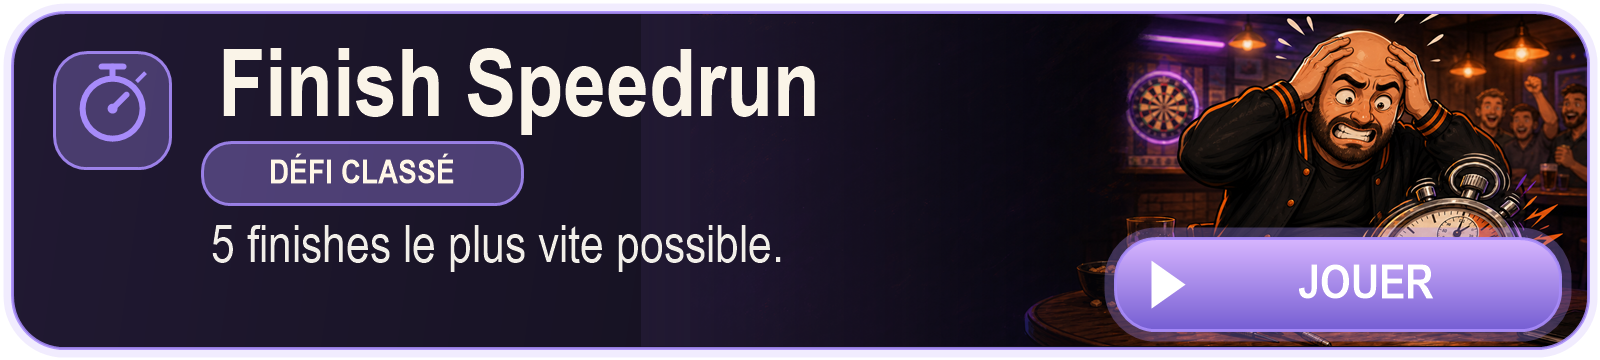
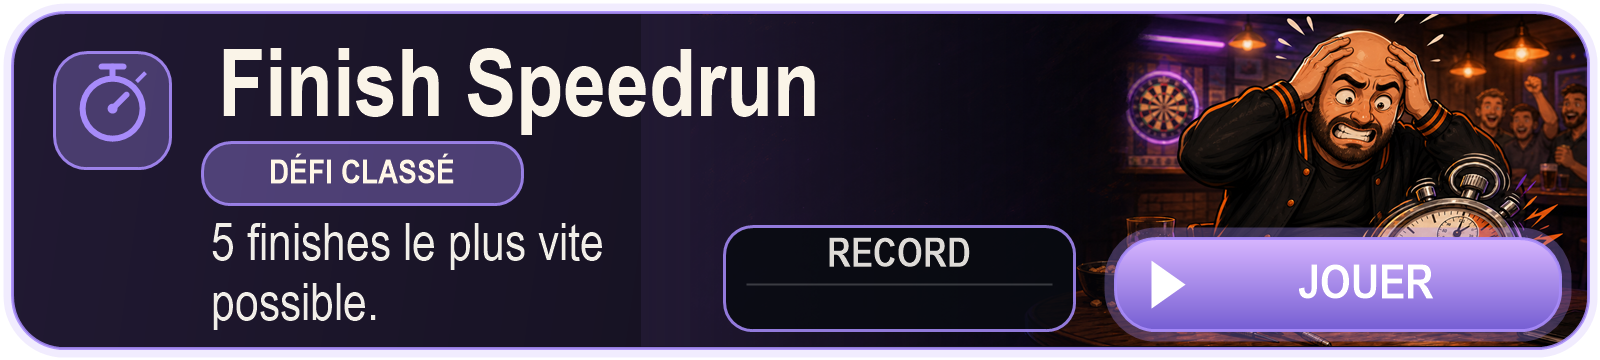
Mini jeux: les 2 defis du jour passent en banniere avec le record en direct (v80)
L'utilisateur a refait les 2 images avec un encadre RECORD laisse VIDE. Le record
change tous les jours : il ne peut pas etre dessine dedans, on le pose donc en
HTML par-dessus l'image.

- Emplacement mesure au pixel sur l'image 1600x360 : le bloc vide sous le mot
  RECORD va de x 744 a 1054 et de y 268 a 328 -> centre 56,2% / 82,8%.
  (Attention en re-mesurant : il y a un 2e bloc vide SOUS la ligne de separation,
  il ne faut prendre que le premier.)
- La taille du texte suit la largeur de la carte via les unites `cqw`
  (containerType:"inline-size") : 2,7 cqw. Pas de mesure JS, pas de hook dans un
  composant defini en ligne. Support verifie dans le navigateur avant usage.
- GameCardImg accepte une prop `record` ; l'aria-label l'annonce aussi.
- Les cartes "Defi du jour" faites main (81 lignes) sont remplacees par 11 lignes.

CE QUI DISPARAIT, ASSUME : la fourchette de DRIX, le nombre de joueurs du jour, et
le bouton "BLOQUE JUSQU'A DEMAIN". L'info "deja joue" reste visible juste au-dessus
dans "TES DEFIS AUJOURD'HUI 0/2", et le jeu lui-meme refuse toujours une 2e partie.

Verifie dans le navigateur a 618 px ET a 375 px : les 4 bannieres chargees, records
reels affiches (27.8s et 46.4s), position mesuree a 56,2% / 82,8% dans les deux cas,
police 16,7 px sur grand ecran et 9,4 px sur telephone. Plus aucune ancienne carte.

diff --git a/src/App.jsx b/src/App.jsx
@@ -6860,14 +6860,21 @@ const PageModeJeu = ({ joueur, setPage, initCat=null }) => {
   // AUCUN cadre ni fond autour, sinon on doublonnerait la bordure déjà dessinée.
   // C'est un <button> et pas un <div> : accessible au clavier, et surtout `aria-label` porte
   // le texte que les lecteurs d'écran ne peuvent pas lire dans une image.
-  const GameCardImg = ({ img, label, sub, onClick, priorite = false }) => (
+  // `record` : les 2 bannières de speedrun réservent un encadré vide « RECORD ». On y pose
+  // le temps du jour EN HTML par-dessus l'image — il change tous les jours, donc impossible
+  // de le dessiner dedans. Coordonnées mesurées au pixel sur l'image 1600×360 :
+  // emplacement vide x 744→1054, y 268→328, soit centre 56,2 % / 82,8 %.
+  // La taille du texte suit la largeur de la carte grâce aux unités `cqw` (1 cqw = 1 % de la
+  // largeur du conteneur) : le record reste proportionné du téléphone au grand écran.
+  const GameCardImg = ({ img, label, sub, onClick, priorite = false, record = null }) => (
     <button
       type="button" onClick={onClick} className="mj-card mj-card-img"
-      aria-label={`${label} — ${sub}`}
+      aria-label={record ? `${label} — ${sub} — record du jour ${record}` : `${label} — ${sub}`}
       style={{
         display:"block", width:"100%", padding:0, border:"none", background:"none",
         cursor:"pointer", touchAction:"manipulation", borderRadius:22,
         transition:"transform .18s cubic-bezier(.22,.61,.36,1), filter .18s ease",
+        position:"relative", containerType:"inline-size",
       }}
     >
       <img
@@ -6878,6 +6885,14 @@ const PageModeJeu = ({ joueur, setPage, initCat=null }) => {
         loading={priorite ? "eager" : "lazy"} decoding="async"
         style={{ display:"block", width:"100%", height:"auto", borderRadius:22 }}
       />
+      {record && (
+        <span aria-hidden style={{
+          position:"absolute", left:"56.2%", top:"82.8%", transform:"translate(-50%,-50%)",
+          fontSize:"2.7cqw", fontWeight:900, color:"#fbbf24", letterSpacing:.5,
+          fontVariantNumeric:"tabular-nums", whiteSpace:"nowrap", lineHeight:1,
+          textShadow:"0 0 8px #fbbf2466", pointerEvents:"none",
+        }}>{record}</span>
+      )}
     </button>
   );
 
@@ -7123,8 +7138,8 @@ const PageModeJeu = ({ joueur, setPage, initCat=null }) => {
   // ─── REFONTE : Mini Jeux & Défis ────────────────────────────────────────────
   // Les 2 défis du jour featured en tête de liste
   const featuredList = [
-    { name:"Finish Speedrun", target:"chrono-finish", col:"#a78bfa", icon:Timer, record:dailyData.finishRecord, count:dailyData.finishCount, played:dailyData.finishPlayed, drix:"+5 à +20", desc:"5 finishes le plus vite possible" },
-    { name:"Scoreur Speedrun", target:"chrono-scoreur", col:"#60a5fa", icon:Zap, record:dailyData.scoreurRecord, count:dailyData.scoreurCount, played:dailyData.scoreurPlayed, drix:"+5 à +20", desc:"501 → 0 en calcul mental" },
+    { name:"Finish Speedrun", img:"finish-speedrun", target:"chrono-finish", col:"#a78bfa", icon:Timer, record:dailyData.finishRecord, count:dailyData.finishCount, played:dailyData.finishPlayed, drix:"+5 à +20", desc:"5 finishes le plus vite possible" },
+    { name:"Scoreur Speedrun", img:"scoreur-speedrun", target:"chrono-scoreur", col:"#60a5fa", icon:Zap, record:dailyData.scoreurRecord, count:dailyData.scoreurCount, played:dailyData.scoreurPlayed, drix:"+5 à +20", desc:"501 → 0 en calcul mental" },
   ];
 
   const dailyChallenges = [
@@ -7203,85 +7218,15 @@ const PageModeJeu = ({ joueur, setPage, initCat=null }) => {
       </div>
 
       {/* ═══ DÉFIS DU JOUR FEATURED (Finish + Scoreur) ═══ */}
-      {featuredList.map((featured, idx) => (
-        <div key={featured.target} className="mj-card" onClick={()=>setPage(featured.target)} style={{
-          position:"relative", overflow:"hidden",
-          background:`linear-gradient(135deg,${featured.col}22 0%,#0a0a14 50%,#050510 100%)`,
-          border:`2px solid ${featured.col}`,
-          borderRadius:18, padding:"14px 14px 12px",
-          cursor:"pointer", userSelect:"none", marginBottom:12,
-          boxShadow:`0 0 22px ${featured.col}55, inset 0 1px 0 #ffffff10`,
-          "--mjShadow": `${featured.col}66`,
-        }}>
-          {/* Bannière shine */}
-          <div aria-hidden style={{ position:"absolute",top:0,left:0,bottom:0,width:80,background:"linear-gradient(90deg,transparent,#ffffff15,transparent)",animation:"mjShine 3s ease-in-out infinite",pointerEvents:"none" }}/>
-          <div style={{ display:"flex",alignItems:"center",gap:8,marginBottom:10 }}>
-            <span style={{
-              fontSize:9,fontWeight:900,color:"#fbbf24",letterSpacing:2,
-              padding:"3px 10px",borderRadius:5,
-              background:"linear-gradient(90deg,#78350f44,#78350f66,#78350f44)",
-              border:"1px solid #fbbf2477", textShadow:"0 0 6px #fbbf24aa",
-            }}><EmoText s="🏆 DÉFI DU JOUR" size={9} gap={3}/></span>
-            {featured.played && (
-              <span style={{ fontSize:9,fontWeight:900,color:"#22c55e",padding:"3px 8px",borderRadius:5,background:"#052e1655",border:"1px solid #22c55e88" }}><EmoText s="✓ FAIT" size={9} gap={3}/></span>
-            )}
-          </div>
-
-          <div style={{ display:"flex",alignItems:"center",gap:12,marginBottom:10 }}>
-            <div style={{
-              flexShrink:0,width:54,height:54,borderRadius:14,
-              background:`linear-gradient(135deg,${featured.col}44,${featured.col}11)`,
-              border:`1.5px solid ${featured.col}`,
-              display:"flex",alignItems:"center",justifyContent:"center",
-              boxShadow:`0 0 16px ${featured.col}88, inset 0 1px 0 #ffffff20`,
-              animation: featured.played ? "none" : `mjPulse 2.4s ease-in-out ${idx*.4}s infinite`,
-            }}>
-              <featured.icon size={28} color={featured.col} style={{ filter:`drop-shadow(0 0 6px ${featured.col})` }}/>
-            </div>
-            <div style={{ flex:1, minWidth:0 }}>
-              <div style={{ fontSize:18,fontWeight:900,color:featured.col,letterSpacing:.5,textShadow:`0 0 8px ${featured.col}66` }}>
-                {featured.name}
-              </div>
-              <div style={{ fontSize:11,color:"#94a3b8",marginTop:2 }}>
-                {featured.desc}
-              </div>
-            </div>
-          </div>
-
-          {/* Stats row */}
-          <div style={{ display:"flex",gap:6,marginBottom:10,flexWrap:"wrap" }}>
-            <div style={{ flex:"1 1 0",background:"#0a0a14",border:`1px solid ${featured.col}33`,borderRadius:8,padding:"6px 8px",textAlign:"center",minWidth:80 }}>
-              <div style={{ fontSize:8,color:"#64748b",letterSpacing:1.5,marginBottom:2 }}><EmoText s="⏱ RECORD" size={9} gap={3}/></div>
-              <div style={{ fontSize:14,fontWeight:900,color:"#fbbf24",fontVariantNumeric:"tabular-nums" }}>
-                {featured.record ? fmtMs(featured.record.temps_ms) : "—"}
-              </div>
-            </div>
-            <div style={{ flex:"1 1 0",background:"#0a0a14",border:"1px solid #a78bfa33",borderRadius:8,padding:"6px 8px",textAlign:"center",minWidth:80 }}>
-              <div style={{ fontSize:8,color:"#64748b",letterSpacing:1.5,marginBottom:2 }}><EmoText s="💎 DRIX" size={9} gap={3}/></div>
-              <div style={{ fontSize:14,fontWeight:900,color:"#a78bfa" }}>{featured.drix}</div>
-            </div>
-            <div style={{ flex:"1 1 0",background:"#0a0a14",border:"1px solid #ef444433",borderRadius:8,padding:"6px 8px",textAlign:"center",minWidth:80 }}>
-              <div style={{ fontSize:8,color:"#64748b",letterSpacing:1.5,marginBottom:2 }}><EmoText s="🔥 JOUEURS" size={9} gap={3}/></div>
-              <div style={{ fontSize:14,fontWeight:900,color:"#ef4444" }}>{featured.count}</div>
-            </div>
-          </div>
-
-          {/* CTA */}
-          <div style={{ display:"flex",justifyContent:"center" }}>
-            <span style={{
-              display:"inline-flex",alignItems:"center",gap:6,
-              padding:"8px 16px",borderRadius:10,
-              background: featured.played
-                ? "#1a1a2a"
-                : `linear-gradient(135deg,${featured.col},${featured.col}dd)`,
-              color: featured.played ? "#64748b" : "#fff",
-              fontSize:13, fontWeight:900, letterSpacing:1.5,
-              boxShadow: featured.played ? "none" : `0 4px 14px ${featured.col}88, inset 0 1px 0 #ffffff33, inset 0 -2px 0 #00000044`,
-              textShadow: featured.played ? "none" : "0 1px 2px #00000066",
-            }}>
-              {featured.played ? "🔒 BLOQUÉ JUSQU'À DEMAIN" : "⚡ JOUER MAINTENANT"}
-            </span>
-          </div>
+      {/* Les 2 défis du jour, en bannière. Le titre, le badge et l'illustration sont
+          dessinés dans l'image ; seul le RECORD du jour est posé par-dessus, car il
+          change chaque jour. L'info « déjà joué » reste visible juste au-dessus, dans
+          « TES DÉFIS AUJOURD'HUI ». */}
+      {featuredList.map((featured) => (
+        <div key={featured.target} style={{ marginBottom:12 }}>
+          <GameCardImg img={featured.img} label={featured.name} sub={featured.desc} priorite
+            record={featured.record ? fmtMs(featured.record.temps_ms) : "—"}
+            onClick={()=>setPage(featured.target)}/>
         </div>
       ))}
 
